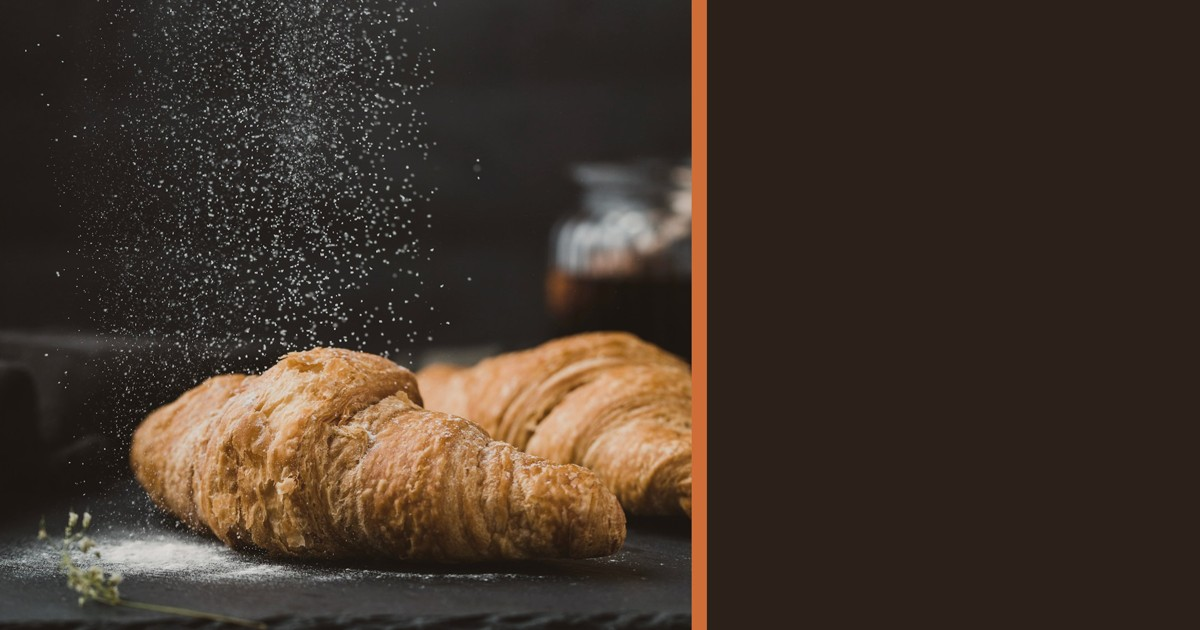
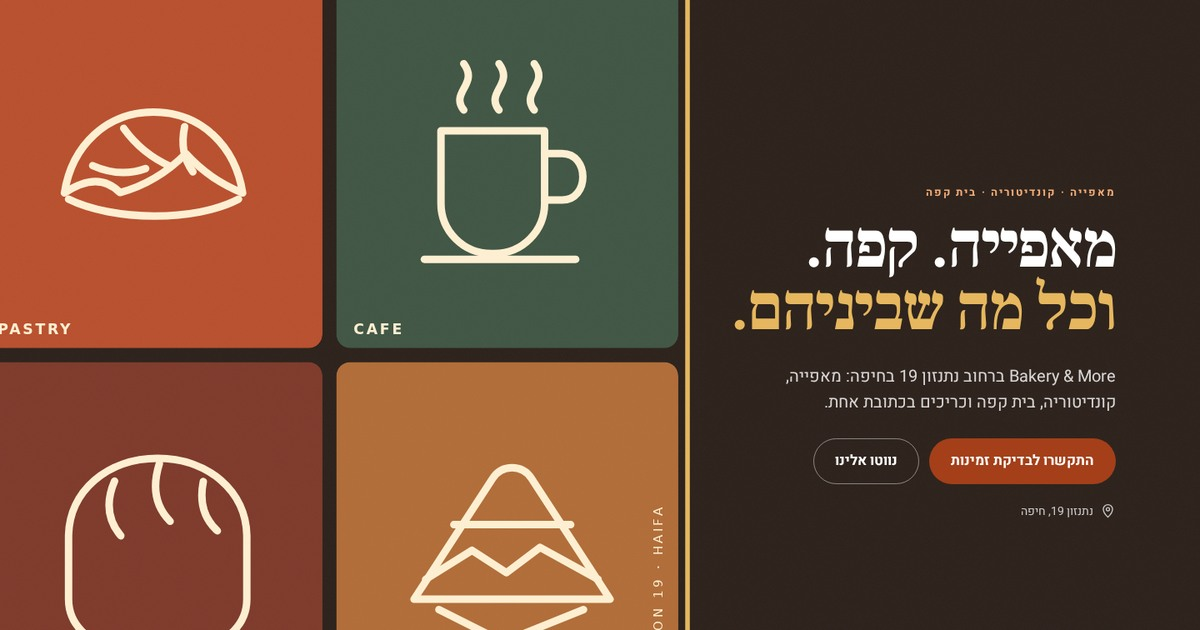
Replace stock-led revision with original responsive identity

diff --git a/index.html b/index.html
@@ -4,7 +4,7 @@
   <meta charset="utf-8">
   <meta name="viewport" content="width=device-width,initial-scale=1,viewport-fit=cover">
   <title>Bakery & More | מאפייה, קונדיטוריה ובית קפה בחיפה</title>
-  <meta name="description" content="Bakery & More ברחוב נתנזון 19 בחיפה: מאפייה, קונדיטוריה, בית קפה וכריכים. התקשרו או שלחו הודעה ב-WhatsApp.">
+  <meta name="description" content="Bakery & More ברחוב נתנזון 19 בחיפה: מאפייה, קונדיטוריה, בית קפה וכריכים. פרטי קשר וניווט.">
   <meta name="theme-color" content="#2b201a">
   <link rel="canonical" href="https://yuvalhd711-ops.github.io/bakery-and-more-haifa/">
   <meta property="og:title" content="Bakery & More | חיפה">
@@ -31,16 +31,16 @@
   <main id="main">
     <section class="hero" aria-labelledby="hero-title">
       <picture class="hero-media" aria-hidden="true">
-        <source media="(max-width: 720px)" srcset="assets/images/hero-mobile.jpg">
-        <img src="assets/images/hero-desktop.jpg" alt="" width="2200" height="1320" fetchpriority="high">
+        <source media="(max-width: 720px)" srcset="assets/images/hero-mobile-v6.svg">
+        <img src="assets/images/hero-desktop-v6.svg" alt="" width="2200" height="1320" fetchpriority="high">
       </picture>
       <div class="hero-copy">
         <p class="eyebrow">מאפייה · קונדיטוריה · בית קפה</p>
-        <h1 id="hero-title">משהו טוב<br><em>מחכה בחיפה.</em></h1>
-        <p class="hero-lead">Bakery & More ברחוב נתנזון 19. מאפים, קפה וכריכים במקום אחד.</p>
+        <h1 id="hero-title">מאפייה. קפה.<br><em>וכל מה שביניהם.</em></h1>
+        <p class="hero-lead">Bakery & More ברחוב נתנזון 19 בחיפה: מאפייה, קונדיטוריה, בית קפה וכריכים בכתובת אחת.</p>
         <div class="actions">
-          <a class="button primary" href="https://wa.me/97246944774?text=%D7%94%D7%99%D7%99%2C%20%D7%94%D7%92%D7%A2%D7%AA%D7%99%20%D7%9E%D7%94%D7%90%D7%AA%D7%A8%20%D7%A9%D7%9C%20Bakery%20%26%20More" target="_blank" rel="noopener">שליחת הודעה</a>
-          <a class="button secondary" href="tel:[phone redacted]">התקשרו עכשיו</a>
+          <a class="button primary" href="tel:[phone redacted]">התקשרו לבדיקת זמינות</a>
+          <a class="button secondary" href="https://www.google.com/maps/search/?api=1&query=Bakery%20%26%20More%20Natanzon%2019%20Haifa" target="_blank" rel="noopener">נווטו אלינו</a>
         </div>
         <a class="location-line" href="https://www.google.com/maps/search/?api=1&query=Bakery%20%26%20More%20Natanzon%2019%20Haifa" target="_blank" rel="noopener"><svg aria-hidden="true" viewBox="0 0 24 24"><path d="M12 21s7-6.1 7-12A7 7 0 1 0 5 9c0 5.9 7 12 7 12Z"/><circle cx="12" cy="9" r="2.5"/></svg> נתנזון 19, חיפה</a>
       </div>
@@ -51,7 +51,7 @@
     </section>
 
     <section class="intro wrap" id="about">
-      <p class="section-kicker">במרכז חיפה</p>
+      <p class="section-kicker">בנתנזון 19, חיפה</p>
       <div class="intro-grid">
         <h2>עוצרים לרגע.<br>יוצאים עם משהו טעים.</h2>
         <div class="intro-copy">
@@ -65,17 +65,17 @@
       <div class="wrap">
         <div class="section-head"><p class="section-kicker">מה תמצאו כאן</p><h2 id="offer-title">ארבע סיבות להיכנס.</h2></div>
         <div class="offer-grid">
-          <article><span>01</span><h3>מאפייה</h3><p>לחמים ומאפים כחלק מהיצע המקום.</p></article>
-          <article><span>02</span><h3>קונדיטוריה</h3><p>הצד המתוק של Bakery & More.</p></article>
-          <article><span>03</span><h3>בית קפה</h3><p>מקום לעצור בו לקפה בחיפה.</p></article>
-          <article><span>04</span><h3>כריכים</h3><p>אפשרות לארוחה קלה במקום.</p></article>
+          <article><img src="assets/images/bread.svg" alt="סמל מאויר של קטגוריית מאפייה" width="900" height="620" loading="lazy"><span>01</span><h3>מאפייה</h3><p>אחת הקטגוריות של המקום.</p></article>
+          <article><img src="assets/images/pastry.svg" alt="סמל מאויר של קטגוריית קונדיטוריה" width="900" height="620" loading="lazy"><span>02</span><h3>קונדיטוריה</h3><p>הצד המתוק של Bakery & More.</p></article>
+          <article><img src="assets/images/coffee.svg" alt="סמל מאויר של קטגוריית בית קפה" width="900" height="620" loading="lazy"><span>03</span><h3>בית קפה</h3><p>מקום לעצור בו לקפה בחיפה.</p></article>
+          <article><img src="assets/images/sandwich.svg" alt="סמל מאויר של קטגוריית כריכים" width="900" height="620" loading="lazy"><span>04</span><h3>כריכים</h3><p>קטגוריית הכריכים של המקום.</p></article>
         </div>
       </div>
     </section>
 
     <section class="today wrap" aria-labelledby="today-title">
       <div class="today-copy"><p class="section-kicker">לפני שיוצאים</p><h2 id="today-title">מה זמין<br>היום?</h2></div>
-      <div class="today-card"><p>כדי לבדוק מה מחכה כרגע במאפייה, מה אפשר להזמין ומתי כדאי להגיע, פשוט מתקשרים או שולחים הודעה.</p><div class="actions"><a class="button dark" href="tel:[phone redacted]">[phone redacted]</a><a class="text-link" href="https://wa.me/[phone redacted]?text=%D7%94%D7%99%D7%99%2C%20%D7%9E%D7%94%20%D7%96%D7%9E%D7%99%D7%9F%20%D7%94%D7%99%D7%95%D7%9D%20%D7%91-Bakery%20%26%20More%3F" target="_blank" rel="noopener">בדיקה ב-WhatsApp <span aria-hidden="true">←</span></a></div></div>
+      <div class="today-card"><p>לבירור המבחר הזמין היום ומתי כדאי להגיע, התקשרו לעסק. אפשר גם לפתוח הודעה מוכנה ב־WhatsApp.</p><div class="actions"><a class="button dark" href="tel:[phone redacted]">[phone redacted]</a><a class="text-link" href="https://wa.me/[phone redacted]?text=%D7%94%D7%99%D7%99%2C%20%D7%9E%D7%94%20%D7%96%D7%9E%D7%99%D7%9F%20%D7%94%D7%99%D7%95%D7%9D%20%D7%91-Bakery%20%26%20More%3F" target="_blank" rel="noopener">פתיחה ב־WhatsApp <span aria-hidden="true">←</span></a></div></div>
     </section>
 
     <section class="visit wrap" aria-labelledby="visit-title">
@@ -86,14 +86,14 @@
 
     <section class="contact" id="contact" aria-labelledby="contact-title">
       <div class="wrap contact-grid">
-        <div><p class="section-kicker light">רוצים לשאול משהו?</p><h2 id="contact-title">אנחנו בצד<br>השני של הקו.</h2><p>מלאו את הפרטים ונפתח עבורכם הודעת WhatsApp מוכנה לשליחה.</p><div class="direct"><a href="tel:[phone redacted]">[phone redacted]</a><span>נתנזון 19, חיפה</span></div></div>
+        <div><p class="section-kicker light">רוצים לשאול משהו?</p><h2 id="contact-title">אנחנו בצד<br>השני של הקו.</h2><p>מלאו את הפרטים ונכין הודעת WhatsApp במכשיר שלכם.</p><div class="direct"><a href="tel:[phone redacted]">[phone redacted]</a><span>נתנזון 19, חיפה</span></div></div>
         <form id="whatsapp-form" novalidate>
           <label for="name">שם</label><input id="name" name="name" autocomplete="name" required>
           <label for="phone">טלפון</label><input id="phone" name="phone" type="tel" inputmode="tel" autocomplete="tel" required>
           <label for="message">במה נוכל לעזור?</label><textarea id="message" name="message" rows="3" required></textarea>
           <p class="form-error" id="form-error" role="alert" aria-live="polite"></p>
-          <button class="button primary" type="submit">המשך ל-WhatsApp</button>
-          <small>הטופס אינו שומר מידע באתר.</small>
+          <button class="button primary" type="submit">הכנת הודעה ב־WhatsApp</button>
+          <small>הקישור ייפתח ב־WhatsApp; לבירור ודאי, התקשרו.</small>
         </form>
       </div>
     </section>
@@ -101,7 +101,7 @@
 
   <footer><div class="wrap footer-grid"><div class="brand footer-brand"><span class="brand-mark">B<span>&amp;</span>M</span><span><b>Bakery & More</b><small>מאפייה וקפה בחיפה</small></span></div><div><a href="tel:[phone redacted]">[phone redacted]</a><a href="https://www.google.com/maps/search/?api=1&query=Bakery%20%26%20More%20Natanzon%2019%20Haifa" target="_blank" rel="noopener">נתנזון 19, חיפה</a></div><small>© Bakery &amp; More · חיפה</small></div></footer>
 
-  <a class="float whatsapp" href="https://wa.me/[phone redacted]?text=%D7%94%D7%99%D7%99%2C%20%D7%94%D7%92%D7%A2%D7%AA%D7%99%20%D7%9E%D7%94%D7%90%D7%AA%D7%A8%20%D7%A9%D7%9C%20Bakery%20%26%20More" target="_blank" rel="noopener" aria-label="שליחת הודעה ב-WhatsApp">WA</a>
+  <a class="float whatsapp" href="https://wa.me/[phone redacted]?text=%D7%94%D7%99%D7%99%2C%20%D7%94%D7%92%D7%A2%D7%AA%D7%99%20%D7%9E%D7%94%D7%90%D7%AA%D7%A8%20%D7%A9%D7%9C%20Bakery%20%26%20More" target="_blank" rel="noopener" aria-label="פתיחת WhatsApp"><svg aria-hidden="true" viewBox="0 0 24 24"><path d="M20.5 11.7a8.[phone redacted].5L3 20.5l1.3-4.7A8.[phone redacted].7Zm-12.2-4c-.2-.5-.4-.5-.7-.5h-.6c-.2 0-.5.1-.8.4-.3.4-1 1-1 2.4s1 2.8 1.2 3c.[phone redacted] .8 3.5.8.6-.1 1.8-.8 2-1.5.3-.[phone redacted]-.1-.2-.3-.3-.8-.5l-1.8-.8c-.3-.1-.6-.2-.8.2l-1 1.2c-.2.2-.4.3-.8.1a7 [phone redacted]-1.8c-.2-.4 0-.6.1-.7l.6-.7c.2-.2.2-.4.3-.6.1-.2 0-.4 0-.6l-.8-2.2Z"/></svg></a>
   <button class="float access" type="button" aria-expanded="false" aria-controls="access-panel" aria-label="פתיחת תפריט נגישות">נגישות</button>
   <aside class="access-panel" id="access-panel" aria-label="אפשרויות נגישות" hidden>
     <div><b>אפשרויות נגישות</b><button type="button" id="access-close" aria-label="סגירת תפריט נגישות">×</button></div>

diff --git a/styles.css b/styles.css
@@ -1,6 +1,6 @@
 @import url('https://fonts.googleapis.com/css2?family=Heebo:wght@300;400;500;600;700&family=Frank+Ruhl+Libre:wght@600;700&display=swap');
 
-:root{--ink:#2b201a;--paper:#efe6d3;--cream:#f8f3e9;--orange:#cf6d38;--gold:#e6b75e;--green:#284637;--line:rgba(43,32,26,.16)}
+:root{--ink:#2b201a;--paper:#efe6d3;--cream:#f8f3e9;--orange:#a43f19;--gold:#e6b75e;--green:#284637;--line:rgba(43,32,26,.16)}
 *{box-sizing:border-box}
 html{scroll-behavior:smooth}
 body{margin:0;background:var(--cream);color:var(--ink);font-family:Heebo,Arial,sans-serif;font-size:17px;line-height:1.55;overflow-x:hidden}
@@ -14,9 +14,21 @@ a{color:inherit}button,input,textarea{font:inherit}.skip{position:fixed;z-index:
 .visit{padding:92px 0 100px;display:grid;grid-template-columns:.9fr 1.1fr auto;align-items:center;gap:60px;border-top:1px solid var(--line)}.visit-number{font-family:'Frank Ruhl Libre',serif;font-size:210px;line-height:.7;color:var(--orange);letter-spacing:-.08em}.visit h2{font-size:68px}.round-link{width:130px;height:130px;border-radius:50%;border:1px solid var(--ink);display:flex;flex-direction:column;align-items:center;justify-content:center;text-decoration:none}.round-link b{font-size:30px}
 .contact{background:var(--ink);color:#fff;padding:100px 0}.contact-grid{display:grid;grid-template-columns:1fr 1fr;gap:100px}.section-kicker.light{color:var(--gold)}.contact h2{font-size:clamp(54px,6vw,82px)}.contact>div>div>p{color:rgba(255,255,255,.72);max-width:500px}.direct{display:flex;gap:22px;margin-top:35px;flex-wrap:wrap}.direct a{direction:ltr}.contact form{background:#392b24;padding:36px;border:1px solid rgba(255,255,255,.12);display:grid;gap:10px}.contact label{font-size:13px;font-weight:700}.contact input,.contact textarea{width:100%;background:transparent;color:#fff;border:0;border-bottom:1px solid rgba(255,255,255,.35);padding:10px 2px 13px;outline:0}.contact textarea{resize:none}.contact input:focus,.contact textarea:focus{border-color:var(--gold)}.contact form .button{margin-top:14px;width:100%;border:0}.contact form small{opacity:.55}.form-error{min-height:24px;margin:0;color:#ffd6c4;font-size:13px}
 footer{background:#1d1613;color:#fff;padding:48px 0}.footer-grid{display:grid;grid-template-columns:1fr auto;gap:34px;align-items:center}.footer-grid>div:nth-child(2){display:flex;gap:25px;flex-wrap:wrap}.footer-grid>small{grid-column:1/-1;opacity:.5}.footer-brand .brand-mark{background:var(--gold);color:var(--ink)}
-.float{position:fixed;z-index:80;bottom:22px;border:0;box-shadow:0 8px 28px rgba(0,0,0,.24);text-decoration:none;transition:opacity .2s ease}.whatsapp{right:22px;width:56px;height:56px;border-radius:50%;display:grid;place-items:center;background:#176b49;color:#fff;font-weight:800;font-size:13px}.access{left:22px;min-height:48px;border-radius:100px;padding:0 16px;background:#fff;color:var(--ink);font-weight:700}.access-panel{position:fixed;z-index:90;left:22px;bottom:82px;width:min(320px,calc(100vw - 44px));background:#fff;color:var(--ink);padding:18px;box-shadow:0 18px 55px rgba(0,0,0,.27);border-radius:18px}.access-panel[hidden]{display:none}.access-panel>div{display:flex;justify-content:space-between;align-items:center;margin-bottom:10px}.access-panel button{width:100%;min-height:44px;text-align:right;border:0;border-top:1px solid var(--line);background:#fff;cursor:pointer}.access-panel #access-close{width:44px;border:0;text-align:center;font-size:25px}.high-contrast{--cream:#fff;--paper:#fff;--ink:#000;--orange:#9e2d00}.large-text{font-size:20px}.highlight-links a{text-decoration:underline!important;text-decoration-thickness:3px!important}.reduce-motion *{animation:none!important;transition:none!important;scroll-behavior:auto!important}:focus-visible{outline:3px solid var(--gold);outline-offset:3px}
+.float{position:fixed;z-index:80;bottom:22px;border:0;box-shadow:0 8px 28px rgba(0,0,0,.24);text-decoration:none;opacity:0;pointer-events:none;transform:translateY(12px);transition:opacity .2s ease,transform .2s ease}.float.is-visible{opacity:1;transform:none}.whatsapp{right:22px;width:56px;height:56px;border-radius:50%;display:grid;place-items:center;background:#176b49;color:#fff;font-weight:800;font-size:13px}.access{left:22px;min-height:48px;border-radius:100px;padding:0 16px;background:#fff;color:var(--ink);font-weight:700}.access-panel{position:fixed;z-index:90;left:22px;bottom:82px;width:min(320px,calc(100vw - 44px));background:#fff;color:var(--ink);padding:18px;box-shadow:0 18px 55px rgba(0,0,0,.27);border-radius:18px}.access-panel[hidden]{display:none}.access-panel>div{display:flex;justify-content:space-between;align-items:center;margin-bottom:10px}.access-panel button{width:100%;min-height:44px;text-align:right;border:0;border-top:1px solid var(--line);background:#fff;cursor:pointer}.access-panel #access-close{width:44px;border:0;text-align:center;font-size:25px}.high-contrast{--cream:#fff;--paper:#fff;--ink:#000;--orange:#9e2d00}.large-text{font-size:20px}.highlight-links a{text-decoration:underline!important;text-decoration-thickness:3px!important}.reduce-motion *{animation:none!important;transition:none!important;scroll-behavior:auto!important}:focus-visible{outline:3px solid var(--gold);outline-offset:3px}
 
 @media(max-width:900px){.site-header nav{display:none}.intro-grid,.contact-grid,.today{grid-template-columns:1fr}.offer-grid{grid-template-columns:1fr 1fr}.offer-grid article:nth-child(2){border-left:0}.visit{grid-template-columns:1fr auto}.visit-number{display:none}.contact-grid{gap:55px}.section-head{display:block}.section-head h2{margin-top:8px}.today{gap:34px}}
 @media(max-width:720px){.site-header{height:72px;padding:0 18px;gap:12px}.brand-mark{width:44px;height:40px;font-size:17px}.brand-mark span{font-size:10px}.brand b{font-size:15px}.brand small{font-size:10px}.header-call{font-size:13px}.hero{height:772px;min-height:calc(100svh - 72px)}.hero-copy{top:0;right:0;transform:none;width:100%;padding:42px 24px 0}.hero h1{font-size:clamp(54px,14.5vw,69px)}.hero-lead{font-size:17px;line-height:1.5;margin:18px 0}.hero .actions{gap:9px}.hero .actions .button{flex:1;position:relative;z-index:3}.button{min-height:48px;padding:11px 18px}.location-line{margin-top:13px}.marquee{font-size:13px}.wrap{width:min(100% - 36px,1180px)}.intro{padding:76px 0}.intro-grid{gap:28px}.intro h2{font-size:47px}.intro-copy{font-size:18px}.offer{padding:72px 0}.section-head{margin-bottom:34px}.section-head h2{font-size:44px}.offer-grid{grid-template-columns:1fr}.offer-grid article{border-left:0;border-bottom:1px solid var(--line);min-height:auto;padding:25px 8px}.offer-grid article:last-child{border-bottom:0}.offer-grid h3{font-size:34px;margin:10px 0 4px}.today{padding:72px 0;gap:28px}.today h2{font-size:50px}.today-card{font-size:18px;padding:26px 0}.today-card .actions{gap:18px}.visit{padding:72px 0;grid-template-columns:1fr auto;gap:10px}.visit h2{font-size:52px}.round-link{width:102px;height:102px}.contact{padding:72px 0}.contact h2{font-size:52px}.contact form{padding:24px 20px}.footer-grid{grid-template-columns:1fr}.footer-grid>small{grid-column:auto}.float{bottom:16px}.whatsapp{right:16px}.access{left:16px}.access-panel{left:16px;bottom:72px}.footer-brand .brand-mark span{display:inline}}
 @media(max-width:370px){.hero-copy{padding-top:30px}.hero h1{font-size:49px}.hero-lead{margin:12px 0}.location-line{margin-top:9px}.site-header{gap:7px}.header-call{font-size:12px}.brand small{display:none}.hero .actions{flex-wrap:nowrap}.hero .actions .button{font-size:14px;padding-inline:12px}}
 @media(prefers-reduced-motion:reduce){*{scroll-behavior:auto!important;transition:none!important}}
+/* Revision 2: bespoke four-category visual system */
+.hero .eyebrow{color:#f4ad78}
+.offer-grid article{padding:14px 14px 30px;min-height:0}
+.offer-grid article img{display:block;width:100%;height:190px;object-fit:cover;margin-bottom:20px}
+.offer-grid article span{display:block}
+.offer-grid h3{margin:12px 0 6px;font-size:34px}
+.whatsapp svg{width:29px;height:29px;fill:#fff}
+.hero h1{font-size:clamp(58px,5.45vw,90px)}
+.intro{padding-block:88px}.offer{padding-block:82px}.today{padding-block:72px}.visit{padding-block:76px}.contact{padding-block:88px}
+@media(max-width:900px){.offer-grid article:nth-child(2){border-left:1px solid var(--line)}.offer-grid article:nth-child(even){border-left:0}}
+@media(max-width:720px){.hero h1{font-size:clamp(48px,12.8vw,61px)}.hero-copy{padding-top:34px}.hero-lead{margin:14px 0}.offer-grid article{display:grid;grid-template-columns:118px 1fr;grid-template-rows:auto auto auto;column-gap:18px;padding:14px 0}.offer-grid article img{grid-row:1/4;width:118px;height:112px;margin:0}.offer-grid article span{grid-column:2}.offer-grid article h3{grid-column:2;margin:1px 0;font-size:30px}.offer-grid article p{grid-column:2}.intro,.offer,.today,.visit,.contact{padding-block:64px}}
+@media(max-width:370px){.hero h1{font-size:45px}.hero-lead{font-size:16px}.offer-grid article{grid-template-columns:105px 1fr}.offer-grid article img{width:105px;height:108px}}

diff --git a/script.js b/script.js
@@ -1,3 +1,3 @@
 const form=document.querySelector('#whatsapp-form');form.addEventListener('submit',e=>{e.preventDefault();const n=form.name.value.trim(),p=form.phone.value.trim(),m=form.message.value.trim(),err=document.querySelector('#form-error');if(!n||!p||!m){err.textContent='יש למלא את כל השדות.';return}if(p.replace(/\D/g,'').length<9){err.textContent='יש להזין מספר טלפון תקין.';return}err.textContent='';const text=encodeURIComponent(`היי, הגעתי מהאתר של Bakery & More.\nשם: ${n}\nטלפון: ${p}\nהודעה: ${m}`);window.open(`https://wa.me/[phone redacted]?text=${text}`,'_blank','noopener')});
 const trigger=document.querySelector('.access'),panel=document.querySelector('#access-panel'),close=document.querySelector('#access-close');function setPanel(open){panel.hidden=!open;trigger.setAttribute('aria-expanded',String(open));if(open)close.focus()}trigger.addEventListener('click',()=>setPanel(panel.hidden));close.addEventListener('click',()=>{setPanel(false);trigger.focus()});document.addEventListener('keydown',e=>{if(e.key==='Escape'&&!panel.hidden){setPanel(false);trigger.focus()}});document.querySelectorAll('[data-access]').forEach(b=>b.addEventListener('click',()=>{const k=b.dataset.access,body=document.body;if(k==='font')body.classList.toggle('large-text');if(k==='contrast')body.classList.toggle('high-contrast');if(k==='links')body.classList.toggle('highlight-links');if(k==='motion')body.classList.toggle('reduce-motion');if(k==='reset')body.classList.remove('large-text','high-contrast','highlight-links','reduce-motion')}));
-const footer=document.querySelector('footer'),floats=document.querySelectorAll('.float');new IntersectionObserver(([e])=>{floats.forEach(x=>{x.style.opacity=e.isIntersecting?'0':'1';x.style.pointerEvents=e.isIntersecting?'none':'auto'});if(e.isIntersecting&&!panel.hidden)setPanel(false)},{threshold:.1}).observe(footer);
+const footer=document.querySelector('footer'),hero=document.querySelector('.hero'),floats=document.querySelectorAll('.float');function updateFloats(){const pastHero=window.scrollY>hero.offsetHeight*.72;const beforeFooter=window.scrollY+window.innerHeight<footer.offsetTop+80;const show=pastHero&&beforeFooter;floats.forEach(x=>{x.classList.toggle('is-visible',show);x.style.pointerEvents=show?'auto':'none'});if(!show&&!panel.hidden)setPanel(false)}updateFloats();addEventListener('scroll',updateFloats,{passive:true});addEventListener('resize',updateFloats);

diff --git a/ASSETS.md b/ASSETS.md
@@ -1,10 +1,9 @@
 # Production asset record
 
-Hero photography base: Unsplash image `photo-1555507036-ab1f4038808a`, used under the Unsplash License.
+All production hero and category artwork is original vector artwork authored for this project.
 
-- Source image: https://images.unsplash.com/photo-1555507036-ab1f4038808a
-- License: https://unsplash.com/license
-- Production derivatives: `hero-desktop.jpg`, `hero-mobile.jpg`, and `og.jpg`
-- Treatment: independent desktop/mobile crops and cohesive warm color grading.
-
-The photography is editorial atmosphere; no claim is made that it depicts the business premises or its exact products.
+- Hero: `hero-desktop-v6.svg`, `hero-mobile-v6.svg`
+- Category assets: `bread.svg`, `pastry.svg`, `coffee.svg`, `sandwich.svg`
+- Visual basis: only the verified public listing categories — bakery, pastry shop, café, sandwiches — plus the verified address Natanzon 19, Haifa.
+- Third-party production imagery: none.
+- External licenses required: none.